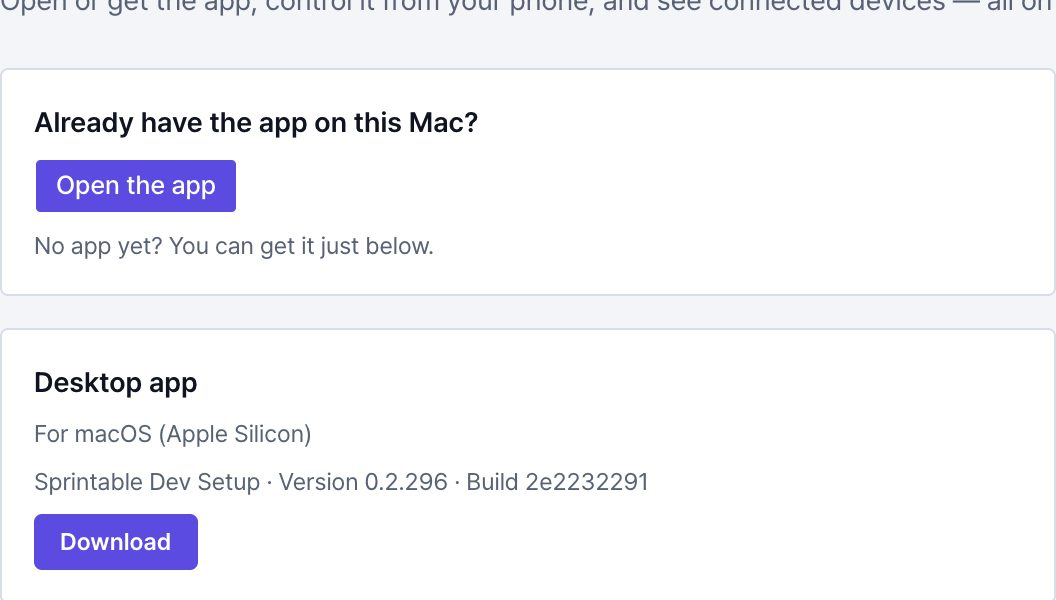
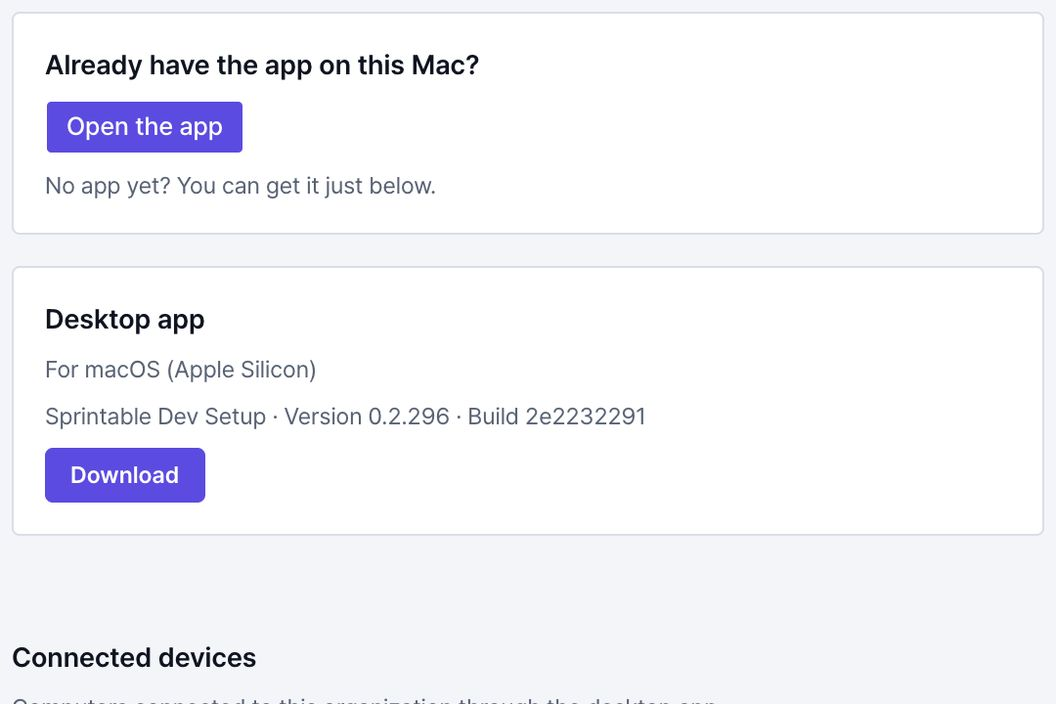
feat(landing): C-5 — hero v1.3, Linux FUSE line, real pictures in the who cards, two-column rules block, remove review captures
Hero title and subtitle follow doc v1.3 (page title, meta description and JSON-LD with them); the Mac/Windows/Linux section gains the Ubuntu FUSE line; the who cards carry real picture crops; the rules block is text left, policies card right; step 1's picture starts on the card's top border; the review capture folders (docs/drafts) are removed from the branch.

diff --git a/app/components/home-page.tsx b/app/components/home-page.tsx
@@ -122,6 +122,7 @@ export function HomePage() {
         {/* 2 — three core cards: icon and two lines each (v1.1 sentences) */}
         <section className="section v3-fill v3-spread" id="who" aria-labelledby="who-h">
           <div className="wrap">
+            <div className="v3-who-top">
             <div className="section-head"><h2 id="who-h">{v("who.title")}</h2></div>
             <div className="grid v3-cards">
               {([["ui-monitor", "claude-code"], ["ui-smartphone", "openai"], ["ui-lock", "ui-shield-check"]] as const).map(([glyph, mark], i) => (
@@ -134,10 +135,15 @@ export function HomePage() {
                       <img className={`ic v3-core__mark${mark === "openai" ? " ic-ink" : " ic-land"}`} src={`/assets/icons/${mark}.svg`} alt="" width={40} height={40} loading="lazy" />
                     )}
                   </div>
+                  <div className="v3-core__pic">
+                    {/* eslint-disable-next-line @next/next/no-img-element */}
+                    <img src={`${shots}/who-${i + 1}.jpg`} alt="" width={720} height={480} loading="lazy" />
+                  </div>
                   <h3>{core[i].head}</h3>
                   <p>{core[i].line}</p>
                 </article>
               ))}
+            </div>
             </div>
             <ul className="grid v3-who">
               {(v.raw("who.items") as { lead: string; rest: string }[]).map((w) => (
@@ -175,8 +181,8 @@ export function HomePage() {
         {/* 4a — what you do from the phone: text left, the phone-width pictures right */}
         <section className="section v3-fill" id="phone" aria-labelledby="phone-h">
           <div className="wrap">
-            <div className="grid fill v3-feature">
-              <div className="span-5">
+            <div className="grid fill v3-feature v3-feature--top">
+              <div className="span-6">
                 <div className="section-head"><h2 id="phone-h">{v("anywhere.title")}</h2></div>
                 <ul className="rows">
                   {list("anywhere.items").map((text, i) => (
@@ -195,20 +201,20 @@ export function HomePage() {
         </section>
 
         {/* 4b — your accounts, your computers: the big capture left, the words right */}
-        <section className="section v3-fill" id="own" aria-labelledby="own-h">
+        <section className="section v3-fill v3-center" id="own" aria-labelledby="own-h">
           <div className="wrap">
-            <div className="grid fill v3-feature v3-feature--flip">
-              <div className="span-8 v3-card-shot v3-card-shot--policy">
-                {/* eslint-disable-next-line @next/next/no-img-element */}
-                <img src={`${shots}/policies-1440.jpg`} alt="" width={1300} height={690} loading="lazy" />
-              </div>
-              <div className="span-4 start-9">
+            <div className="grid fill v3-feature v3-feature--top">
+              <div className="span-6">
                 <div className="section-head"><h2 id="own-h">{v("own.title")}</h2></div>
                 <ul className="rows">
                   {list("own.items").map((text, i) => (
                     <li key={i}><p>{text}</p></li>
                   ))}
                 </ul>
+              </div>
+              <div className="span-6 start-7 v3-card-shot v3-card-shot--policy">
+                {/* eslint-disable-next-line @next/next/no-img-element */}
+                <img src={`${shots}/policies-1440.jpg`} alt="" width={1300} height={690} loading="lazy" />
               </div>
             </div>
           </div>
@@ -247,6 +253,7 @@ export function HomePage() {
               ))}
             </div>
             <p className="t-small v3-notice">{v("os.windows")}</p>
+            <p className="t-small v3-notice v3-notice--code">{(v("os.linux") as string).split("`").map((part, i) => (i % 2 === 1 ? <code key={i}>{part}</code> : part))}</p>
           </div>
         </section>
 
@@ -276,7 +283,7 @@ export function HomePage() {
         <section className="section v3-fill" id="faq" aria-labelledby="faq-h">
           <div className="wrap">
             <div className="grid fill v3-faqgrid">
-              <div className="span-4">
+              <div className="span-6">
                 <div className="section-head"><h2 id="faq-h">{v("faq.title")}</h2></div>
                 <div className="mark-row">
                   {/* eslint-disable-next-line @next/next/no-img-element */}
@@ -285,7 +292,7 @@ export function HomePage() {
                   <img className="ic ic-40 ic-ink" src="/assets/icons/openai.svg" alt="OpenAI" width={39} height={40} loading="lazy" />
                 </div>
               </div>
-              <div className="faq v3-faq span-7 start-6">
+              <div className="faq v3-faq span-6 start-7">
                 {faq.map((f) => (
                   <details className="faq__item" key={f.q} open>
                     <summary><h3>{f.q}</h3></summary>
@@ -303,7 +310,7 @@ export function HomePage() {
         <div className="wrap">
           <div className="closing__cta close--type">
             <div className="section-head"><h2 id="close-h">{v("last.line")}</h2></div>
-            <DownloadButton className="btn btn--primary btn--xl btn--wide" />
+            <DownloadButton className="btn btn--primary" />
           </div>
           <div className="closing__links">
             <div className="grid">

diff --git a/app/components/v2/page.css b/app/components/v2/page.css
@@ -136,3 +136,39 @@ main > section.v3-spread > .wrap { justify-content: space-between; padding-botto
 .v3-card-shot--policy > img { height: 100%; min-height: 520px; object-fit: cover; object-position: top left; }
 /* the footer logo mark: the letter stays whole inside a tile of its own size */
 .footer .nav__logo .mark.mark--initial { width: 28px; height: 28px; font-size: 15px; line-height: 28px; overflow: visible; }
+
+/* ── C-5 ── */
+/* 1 the hero window: a dark frame and more height, so the light picture reads */
+main .hero--centred .hero__window { --ground-bg: #1c2433; min-height: clamp(280px, 40svh, 420px); }
+/* 2 the core cards carry a real picture; the OS marks are larger */
+.v3-core__pic { aspect-ratio: 3 / 2; overflow: hidden; border: 1px solid var(--line); border-radius: var(--r-md); background: var(--bg); }
+.v3-core__pic > img { display: block; width: 100%; height: 100%; object-fit: cover; object-position: top left; }
+.v3-core { padding-block: var(--s-5); }
+.v3-core__tile { margin-bottom: 0; }
+.v3-os-section .v3-os__head .ic { width: 72px; height: 72px; }
+/* 3 the heading and its cards stay together (the kit's heading gap); the scenes sit at the foot of the screen */
+.v3-who-top > .section-head { margin-bottom: var(--ly-head-gap); }
+/* 4 the questions fit one screen: wider answers, tighter rows */
+.v3-faq details > p { max-width: none; }
+.v3-faq .faq__item { padding-block: var(--s-2); }
+.v3-faq summary > h3 { font-size: var(--t-body); }
+/* 7 both columns start on the same line */
+.v3-feature--top, .v3-faqgrid { align-items: start; }
+.v3-feature--top > :is(.span-5, .span-6) { align-self: start; }
+
+/* the Linux line under the Windows line: the command is inline code, selectable, wrapping on a phone */
+.v3-notice--code { margin-top: var(--s-3); }
+.v3-notice code { font-family: var(--font-mono); font-size: .92em; background: var(--surface); border: 1px solid var(--line); border-radius: var(--r-sm); padding: 2px 6px; overflow-wrap: anywhere; user-select: all; }
+
+/* ── C-5 (after the gate) ── */
+/* the longer headline gets the hero's full measure (the kit's size stays), the lead a longer line, so the hero holds one screen */
+main .hero--centred .hero__c h1 { max-width: none; }
+main .hero--centred .hero__c .hero__lead { max-width: 80ch; }
+/* the questions end inside the section's bottom padding */
+.v3-faq .faq__item { padding-block: 6px; }
+/* on a phone the three core pictures are 16:9, so the section stays inside two screens */
+@media (max-width: 639px) { .v3-core__pic { aspect-ratio: 16 / 9; } }
+/* the policies card sits top-left in its column */
+.v3-card-shot--policy { align-self: start; }
+/* the hero window takes what the longer headline leaves (the first screen holds, SR-1) */
+main .hero--centred .hero__window { min-height: clamp(220px, 30svh, 330px); }

diff --git a/app/layout.tsx b/app/layout.tsx
@@ -23,9 +23,9 @@ const notoKr = Noto_Sans_KR({
 
 export const metadata: Metadata = {
   metadataBase: new URL("https://sprintable.ai"),
-  title: "Sprintable — A home base for your coding agents",
+  title: "Sprintable — Your agents keep working on your computer. Stay connected from anywhere.",
   description:
-    "Claude Code and Codex work on your projects, on your own computer. Hand them tasks, see what they change and approve the next step — at your desk or from your phone.",
+    "Claude Code and Codex work on your own computer — with your projects, your files and your accounts. Pair your phone or another computer once, then hand out work, approve requests and follow along from wherever you are.",
   icons: {
     icon: [
       { url: "/favicon.svg", type: "image/svg+xml" },
